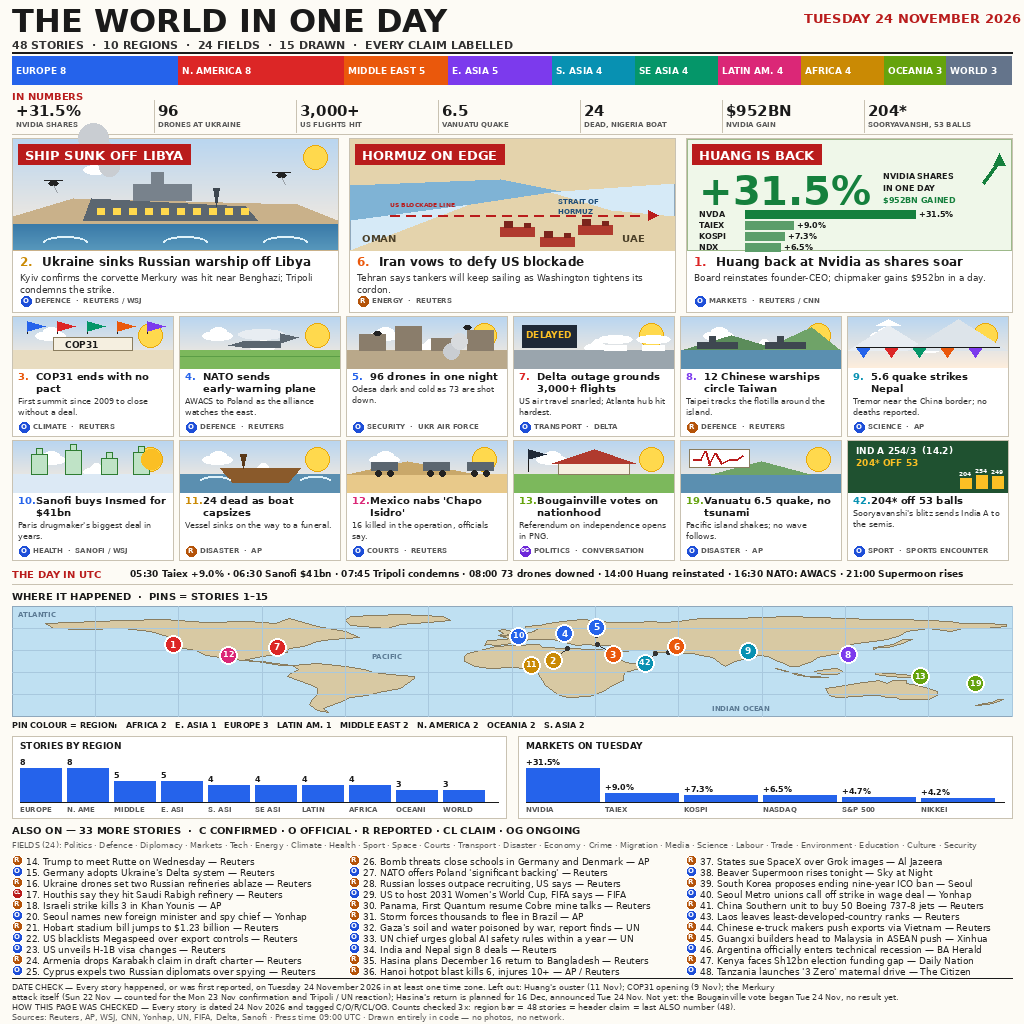
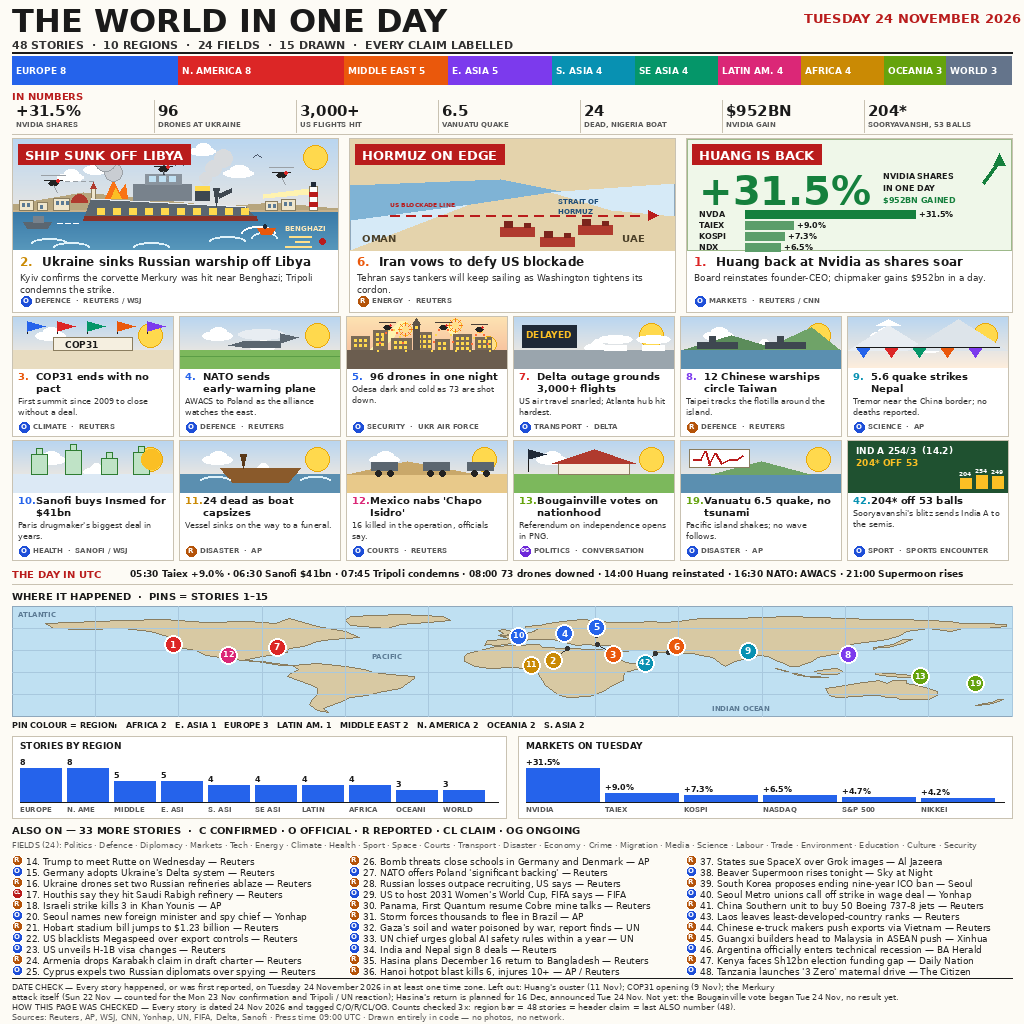
NI24 v5 fix: rich lead-1 warship scene + bright dusk mid-5 drone scene
Lead 1 (story 2, SHIP SUNK OFF LIBYA): layered sky with extra clouds
and birds, Benghazi shoreline with headland, town buildings, dome +
minaret, striped lighthouse with beam, patrol boat, listing corvette
with red waterline, deck line, bridge windows, mast/radar/flag,
funnel, bow gun, lit portholes, bow wave, wake, lifeboat, buoy, stern
fire + smoke, 3 detailed drones. Bright daylight throughout.

Mid 5 (story 5, 96 drones): bright dusk gradient (peach to gold),
low sun, searchlight beams, 7-building skyline with lit windows,
tower with lit spire, 3 tracer arcs, 2 airburst starbursts, 3 drones.
Bright, no dark muddy panel.

No text, counts, regions, pins, numbers, layout or other art touched.
Deterministic re-render verified (identical sha256 across 2 runs);
renderer gates pass: 48 stories, 10 regions max 8, 24 fields, 15 pins,
33 ALSO, last ALSO 48.

Changed region(s): [[0.0, 0.125, 0.3438, 0.25], [0.3125, 0.3125, 0.5, 0.375], [0.1875, 0.125, 0.2188, 0.1562]]

diff --git a/draw_news24_v5.py b/draw_news24_v5.py
@@ -256,36 +256,120 @@ def sun_sky(d, box):
 
 # ---------------------------------------------------------------- scenes
 def scene_sea_warship(d, box):
-    """Lead 1: listing corvette at dawn off Libya — bright, detailed."""
+    """Lead 1: listing corvette hit off Benghazi — rich daylight scene."""
     x0, y0, x1, y1 = box
     sun_sky(d, box)
-    d.polygon([(x0, y1 - 34), (x0 + 60, y1 - 52), (x1 - 40, y1 - 46),
-               (x1, y1 - 30), (x1, y1), (x0, y1)], fill="#C9B18A")
-    d.text((x0 + 272, y1 - 26), "BENGHAZI", font=font(FB, 7), fill="#7A6A45")
-    for i in range(y1 - 26, y1):
-        t = (i - (y1 - 26)) / 26.0
+    # extra clouds + birds in the layered sky
+    for cx, cy, w in [(x0 + 96, y0 + 16, 34), (x0 + 176, y0 + 8, 26),
+                      (x0 + 44, y0 + 34, 26), (x0 + 210, y0 + 30, 30)]:
+        d.ellipse([cx, cy, cx + w, cy + 8], fill="#FFFFFF")
+        d.ellipse([cx + 7, cy - 4, cx + w - 5, cy + 4], fill="#FFFFFF")
+    for bx, by in [(x0 + 150, y0 + 22), (x0 + 162, y0 + 26), (x0 + 240, y0 + 18)]:
+        d.line([(bx, by), (bx + 4, by - 3), (bx + 8, by)], fill="#4A5568", width=1)
+    # distant headland + shoreline band (Benghazi coast)
+    d.polygon([(x0, y1 - 46), (x0 + 70, y1 - 58), (x0 + 150, y1 - 50),
+               (x0 + 210, y1 - 44), (x0 + 260, y1 - 48), (x1, y1 - 42),
+               (x1, y1 - 38), (x0, y1 - 38)], fill="#B7A67E")
+    d.polygon([(x0, y1 - 40), (x1, y1 - 40), (x1, y1 - 34), (x0, y1 - 34)],
+              fill="#C9B18A")
+    # shoreline town: blocky buildings with windows, dome + minaret
+    for bx, bw, bh in [(6, 14, 10), (24, 10, 8), (40, 16, 12),
+                       (252, 12, 9), (268, 14, 11)]:
+        d.rectangle([x0 + bx, y1 - 40 - bh, x0 + bx + bw, y1 - 40],
+                    fill="#EFE6CC", outline="#8A7D5F", width=1)
+        for wx in range(x0 + bx + 3, x0 + bx + bw - 2, 5):
+            d.rectangle([wx, y1 - 40 - bh + 3, wx + 2, y1 - 40 - bh + 6],
+                        fill="#5B7A94")
+    d.pieslice([x0 + 58, y1 - 56, x0 + 74, y1 - 40], 180, 360, fill="#B03A2E")
+    d.rectangle([x0 + 78, y1 - 62, x0 + 82, y1 - 40], fill="#EFE6CC",
+                outline="#8A7D5F", width=1)
+    d.polygon([(x0 + 77, y1 - 62), (x0 + 80, y1 - 68), (x0 + 83, y1 - 62)],
+              fill="#B03A2E")
+    # lighthouse at the right end of the coast, pale beam to the left
+    d.polygon([(x0 + 296, y1 - 62), (x0 + 250, y1 - 56), (x0 + 250, y1 - 52),
+               (x0 + 296, y1 - 56)], fill="#FFF3B0")
+    d.rectangle([x0 + 296, y1 - 64, x0 + 304, y1 - 40], fill="#FFFFFF",
+                outline="#8A7D5F", width=1)
+    d.rectangle([x0 + 296, y1 - 58, x0 + 304, y1 - 54], fill="#B91C1C")
+    d.rectangle([x0 + 296, y1 - 48, x0 + 304, y1 - 44], fill="#B91C1C")
+    d.rectangle([x0 + 298, y1 - 68, x0 + 302, y1 - 64], fill="#1F2937")
+    # sea, gradient from the shoreline down
+    for i in range(y1 - 38, y1):
+        t = (i - (y1 - 38)) / 38.0
         d.line([(x0, i), (x1, i)],
                fill=(int(58 + 30 * t), int(122 + 30 * t), int(168 + 20 * t)))
-    for wx in (x0 + 30, x0 + 150, x0 + 250):
-        d.arc([wx, y1 - 14, wx + 44, y1 - 2], 180, 360, fill="#DFF2FA", width=2)
-    # listing grey corvette, bow down
+    d.text((x0 + 272, y1 - 26), "BENGHAZI", font=font(FB, 7), fill="#FFE9B8")
+    # sun glitter on the water, below the label
+    for gx, gy, gl in [(x0 + 276, y1 - 14, 22), (x0 + 282, y1 - 9, 14),
+                       (x0 + 272, y1 - 4, 26)]:
+        d.line([(gx, gy), (gx + gl, gy)], fill="#FFE08A", width=2)
+    # wave crests
+    for wx, wy in [(x0 + 18, y1 - 12), (x0 + 120, y1 - 8), (x0 + 196, y1 - 14),
+                   (x0 + 40, y1 - 8)]:
+        d.arc([wx, wy, wx + 36, wy + 10], 180, 360, fill="#DFF2FA", width=2)
+    # small patrol boat, far left, with a wake
+    d.polygon([(x0 + 10, y1 - 28), (x0 + 38, y1 - 28), (x0 + 34, y1 - 22),
+               (x0 + 14, y1 - 22)], fill="#5B6670")
+    d.rectangle([x0 + 20, y1 - 34, x0 + 30, y1 - 28], fill="#78828C")
+    for wx in range(x0 + 44, x0 + 68, 8):
+        d.line([(wx, y1 - 27), (wx + 5, y1 - 27)], fill="#FFFFFF", width=1)
+    # listing grey corvette, bow down, hit at the stern
     d.polygon([(x0 + 78, y1 - 52), (x0 + 232, y1 - 44), (x0 + 244, y1 - 30),
                (x0 + 70, y1 - 30)], fill="#5B6670")
+    d.polygon([(x0 + 71, y1 - 34), (x0 + 243, y1 - 34), (x0 + 244, y1 - 30),
+               (x0 + 70, y1 - 30)], fill="#8C2F26")
+    d.line([(x0 + 78, y1 - 52), (x0 + 232, y1 - 44)], fill="#E8EDF2", width=2)
     d.rectangle([x0 + 120, y1 - 66, x0 + 178, y1 - 50], fill="#78828C")
-    d.rectangle([x0 + 138, y1 - 78, x0 + 150, y1 - 66], fill="#78828C")
+    d.rectangle([x0 + 132, y1 - 76, x0 + 168, y1 - 66], fill="#8A949E")
+    for wx in range(x0 + 136, x0 + 166, 10):
+        d.rectangle([wx, y1 - 74, wx + 6, y1 - 69], fill="#BFE0F2")
+    # mast, radar bar, antenna + flag
+    d.line([(x0 + 150, y1 - 92), (x0 + 150, y1 - 76)], fill="#3E4750", width=2)
+    d.line([(x0 + 140, y1 - 90), (x0 + 160, y1 - 88)], fill="#3E4750", width=2)
+    d.line([(x0 + 150, y1 - 92), (x0 + 150, y1 - 100)], fill="#3E4750", width=1)
+    d.polygon([(x0 + 150, y1 - 100), (x0 + 160, y1 - 97), (x0 + 150, y1 - 94)],
+              fill="#B91C1C")
+    # funnel with a yellow band
+    d.rectangle([x0 + 182, y1 - 64, x0 + 196, y1 - 50], fill="#3E4750")
+    d.rectangle([x0 + 182, y1 - 64, x0 + 196, y1 - 60], fill="#FFD94D")
+    # bow gun turret + barrel
     d.polygon([(x0 + 200, y1 - 62), (x0 + 206, y1 - 62), (x0 + 203, y1 - 44)],
               fill="#3E4750")
+    d.polygon([(x0 + 204, y1 - 56), (x0 + 218, y1 - 62), (x0 + 218, y1 - 58),
+               (x0 + 206, y1 - 52)], fill="#3E4750")
+    # lit portholes along the hull
     for px in range(x0 + 84, x0 + 232, 16):
         d.rectangle([px, y1 - 42, px + 7, y1 - 36], fill="#FFD94D")
-    # smoke column, pale grey (daylight, not night)
-    for i, (sx, sy, sr) in enumerate([(x0 + 96, y1 - 84, 10), (x0 + 88, y1 - 98, 13),
-                                      (x0 + 80, y1 - 112, 15)]):
-        d.ellipse([sx - sr, sy - sr, sx + sr, sy + sr], fill="#C9CDD2")
-    # two small drones in the sky
-    for dx, dy in [(x0 + 40, y0 + 44), (x0 + 268, y0 + 36)]:
+    # bow wave + stern wake foam (kept clear of the BENGHAZI label)
+    d.arc([x0 + 228, y1 - 24, x0 + 262, y1 - 10], 180, 360, fill="#FFFFFF", width=2)
+    d.arc([x0 + 238, y1 - 18, x0 + 264, y1 - 6], 180, 360, fill="#DFF2FA", width=2)
+    # orange lifeboat + buoy in the water, right of the ship
+    d.polygon([(x0 + 244, y1 - 22), (x0 + 262, y1 - 22), (x0 + 258, y1 - 16),
+               (x0 + 248, y1 - 16)], fill="#EA580C")
+    d.ellipse([x0 + 250, y1 - 26, x0 + 253, y1 - 22], fill="#1F2937")
+    d.ellipse([x0 + 306, y1 - 12, x0 + 312, y1 - 6], fill="#B91C1C")
+    # hit fire at the stern + smoke column drifting left
+    d.polygon([(x0 + 92, y1 - 52), (x0 + 100, y1 - 70), (x0 + 106, y1 - 58),
+               (x0 + 112, y1 - 66), (x0 + 114, y1 - 52)], fill="#F97316")
+    d.polygon([(x0 + 98, y1 - 52), (x0 + 102, y1 - 62), (x0 + 108, y1 - 52)],
+              fill="#FBBF24")
+    for sx, sy, sr in [(x0 + 100, y1 - 78, 9), (x0 + 92, y1 - 90, 11),
+                       (x0 + 88, y1 - 94, 7)]:
+        d.ellipse([sx - sr, sy - sr, sx + sr, sy + sr], fill="#C9CDD2",
+                  outline="#9AA0A6", width=1)
+    # funnel smoke, thinner, drifting right
+    for sx, sy, sr in [(x0 + 192, y1 - 72, 6), (x0 + 200, y1 - 82, 8),
+                       (x0 + 210, y1 - 92, 9)]:
+        d.ellipse([sx - sr, sy - sr, sx + sr, sy + sr], fill="#D8DBDE")
+    # three drones with rotors, red lights, dashed flight path
+    for dx, dy in [(x0 + 40, y0 + 44), (x0 + 268, y0 + 36), (x0 + 150, y0 + 30)]:
+        d.line([(dx - 12, dy - 8), (dx + 12, dy - 8)], fill="#9AA0A6", width=1)
         d.ellipse([dx - 5, dy - 2, dx + 5, dy + 2], fill="#222222")
         d.line([(dx - 9, dy - 3), (dx + 9, dy - 3)], fill="#222222", width=1)
         d.line([(dx, dy + 2), (dx + 4, dy + 9)], fill="#9AA0A6", width=1)
+        d.ellipse([dx + 3, dy - 4, dx + 6, dy - 1], fill="#DC2626")
+    for x in range(x0 + 52, x0 + 78, 8):
+        d.line([(x, y0 + 42), (x + 4, y0 + 42)], fill="#9AA0A6", width=1)
 
 
 def scene_hormuz_map(d, box):
@@ -369,15 +453,60 @@ def mini_scene(d, box, num):
                   fill="#5B6670")
         d.polygon([(x0 + 62, y0 + 24), (x0 + 48, y0 + 28), (x0 + 62, y0 + 30)],
                   fill="#5B6670")
-    elif num == 5:  # Kyiv in daylight: city + drones + smoke, bright sky
-        d.rectangle([x0, mid_y, x1, y1], fill="#B9A88A")
-        for i, bh in enumerate([16, 24, 12, 20]):
-            bx = x0 + 12 + i * 36
-            d.rectangle([bx, mid_y - bh, bx + 26, mid_y], fill="#8A7D6B")
-        for dx, dy in [(x0 + 30, y0 + 16), (x0 + 120, y0 + 10)]:
+    elif num == 5:  # 96 drones: bright dusk sky, lit city, tracers, bursts
+        # dusk gradient — pale peach to gold, bright, never a dark panel
+        for i in range(y1 - y0):
+            t = i / max(1, (y1 - y0))
+            d.line([(x0, y0 + i), (x1, y0 + i)],
+                   fill=(int(253 - 8 * t), int(226 - 46 * t), int(178 - 28 * t)))
+        # low sun on the horizon, right (drawn before the skyline, so it
+        # sets behind the buildings)
+        d.ellipse([x1 - 26, mid_y - 14, x1 - 10, mid_y + 2], fill="#FFE08A",
+                  outline="#E8A90C", width=1)
+        # searchlight beams, pale gold, behind the skyline
+        d.polygon([(x0 + 22, mid_y), (x0 + 52, y0 + 4), (x0 + 60, y0 + 4),
+                   (x0 + 34, mid_y)], fill="#FFF3B0")
+        d.polygon([(x0 + 118, mid_y), (x0 + 96, y0 + 8), (x0 + 102, y0 + 8),
+                   (x0 + 126, mid_y)], fill="#FFF3B0")
+        # skyline, warm mid-tones, with MANY lit windows
+        for bx, bw, bh in [(4, 18, 14), (26, 14, 20), (44, 20, 12),
+                           (68, 16, 18), (88, 14, 11), (106, 18, 16),
+                           (128, 16, 13)]:
+            d.rectangle([x0 + bx, mid_y - bh, x0 + bx + bw, mid_y],
+                        fill="#7A6A55")
+            for wy in range(mid_y - bh + 3, mid_y - 2, 5):
+                for wx in range(x0 + bx + 3, x0 + bx + bw - 2, 5):
+                    d.rectangle([wx, wy, wx + 2, wy + 2], fill="#FFD94D")
+        # tower with a lit spire, centre
+        d.rectangle([x0 + 66, mid_y - 26, x0 + 72, mid_y], fill="#5C5348")
+        d.polygon([(x0 + 65, mid_y - 26), (x0 + 69, mid_y - 32),
+                   (x0 + 73, mid_y - 26)], fill="#5C5348")
+        d.rectangle([x0 + 68, mid_y - 24, x0 + 70, mid_y - 22], fill="#FFD94D")
+        # ground band
+        d.rectangle([x0, mid_y, x1, y1], fill="#6B5D4F")
+        # tracer arcs, bright dots climbing from the ground to the drones
+        for ax0, ax1, apex in [(x0 + 30, x0 + 58, y0 + 12),
+                               (x0 + 84, x0 + 108, y0 + 8),
+                               (x0 + 122, x0 + 142, y0 + 14)]:
+            for s in range(0, 11):
+                t = s / 10.0
+                px = int(ax0 + (ax1 - ax0) * t)
+                py = int(mid_y - (mid_y - apex) * 4 * t * (1 - t))
+                d.rectangle([px, py, px + 1, py + 1],
+                            fill="#FF6B35" if s % 2 else "#FFD94D")
+        # airburst starbursts where the tracers meet the drones
+        for cx, cy in [(x0 + 58, y0 + 12), (x0 + 108, y0 + 8)]:
+            d.ellipse([cx - 6, cy - 6, cx + 6, cy + 6], outline="#FBBF24", width=1)
+            for ex, ey in [(cx - 7, cy), (cx + 7, cy), (cx, cy - 7), (cx, cy + 7),
+                           (cx - 5, cy - 5), (cx + 5, cy - 5),
+                           (cx - 5, cy + 5), (cx + 5, cy + 5)]:
+                d.line([(cx, cy), (ex, ey)], fill="#F97316", width=1)
+            d.ellipse([cx - 3, cy - 3, cx + 3, cy + 3], fill="#FFE08A")
+        # three drones with rotors + red lights, on the tracer arcs
+        for dx, dy in [(x0 + 40, y0 + 10), (x0 + 96, y0 + 10), (x0 + 132, y0 + 12)]:
+            d.line([(dx - 8, dy - 5), (dx + 8, dy - 5)], fill="#4A4038", width=1)
             d.ellipse([dx - 4, dy - 2, dx + 4, dy + 2], fill="#222222")
-        d.ellipse([x0 + 96, y0 + 26, x0 + 112, y0 + 42], fill="#C9CDD2")
-        d.ellipse([x0 + 104, y0 + 16, x0 + 120, y0 + 32], fill="#D8DBDE")
+            d.ellipse([dx + 2, dy - 3, dx + 4, dy - 1], fill="#DC2626")
     elif num == 7:  # Delta: grounded planes + board
         d.rectangle([x0, mid_y, x1, y1], fill="#9AA5AD")
         d.rectangle([x0 + 8, y0 + 8, x0 + 62, y0 + 30], fill="#1F2937")

diff --git a/README.md b/README.md
@@ -16,8 +16,8 @@ One 1024×1024 newspaper front page — **48 stories, 10 regions, 24 fields, 15 
 - **Region bar (10 regions, none above 8):** Europe 8 · N. America 8 · Middle East 5 · E. Asia 5 · S. Asia 4 · SE Asia 4 · Latin Am. 4 · Africa 4 · Oceania 3 · World 3. v4.1 had Europe 12 of 38 (32%); v5 caps every region at 17%.
 - **IN NUMBERS strip (7):** +31.5% Nvidia shares · 96 drones at Ukraine · 3,000+ US flights hit · 6.5 Vanuatu quake · 24 dead in the Nigeria boat sinking · $952BN Nvidia gain · 204* Sooryavanshi off 53 balls.
 - **THE DAY IN UTC (7 timed items):** 05:30 Taiex +9.0% · 06:30 Sanofi $41bn deal · 07:45 Tripoli condemns sinking · 08:00 73 of 96 drones downed · 14:00 Nvidia reinstates Huang · 16:30 NATO confirms AWACS · 21:00 Supermoon rises.
-- **3 pictorial leads, all bright, each with a big banner word:** (1) RICH scene — Ukraine sinks a Russian warship off Libya, "SHIP SUNK OFF LIBYA"; (2) REGIONAL MAP — the Strait of Hormuz, "HORMUZ ON EDGE"; (3) DATA lead — Nvidia +31.5% as a giant number with a horizontal mini bar chart and a labelled up-arrow, "HUANG IS BACK". No night scenes, no dark panels.
-- **12 mid stories with bright scene banners** (COP31 hall, NATO AWACS, Kyiv in daylight, Delta's grounded planes, warships off Taiwan, the Himalayas, Sanofi's lab, the Nigerian river boat, the Mexico desert convoy, Bougainville's parliament, Vanuatu's seismograph, and a cricket scoreboard with its own mini bar chart).
+- **3 pictorial leads, all bright, each with a big banner word:** (1) RICH detailed scene — a listing corvette hit off the Benghazi coast, with lighthouse, shoreline town, smoke and drones, "SHIP SUNK OFF LIBYA"; (2) REGIONAL MAP — the Strait of Hormuz, "HORMUZ ON EDGE"; (3) DATA lead — Nvidia +31.5% as a giant number with a horizontal mini bar chart and a labelled up-arrow, "HUANG IS BACK". No night scenes, no dark panels.
+- **12 mid stories with bright scene banners** (COP31 hall, NATO AWACS, Odesa at dusk with lit windows, tracer fire and airbursts, Delta's grounded planes, warships off Taiwan, the Himalayas, Sanofi's lab, the Nigerian river boat, the Mexico desert convoy, Bougainville's parliament, Vanuatu's seismograph, and a cricket scoreboard with its own mini bar chart).
 - **Full solid world map** (not dotted) with **15 numbered pins, coloured per region**, Europe's cluster spread with thin leader lines, and a pin-colour count legend underneath. Every pin number is readable at 300 px thumbnail size.
 - **Two chart panels:** Stories by Region (vertical bars) and Markets on Tuesday (Nvidia +31.5%, Taiex +9.0%, Kospi +7.3%, Nasdaq +6.5%, S&P 500 +4.7%, Nikkei +4.2%).
 - **ALSO ON — 33 more stories (16–48)** in three columns, one short line each, every item carrying a claim circle (C confirmed, O official, R reported, CL claim, OG ongoing) plus the field list of all 24 fields.
